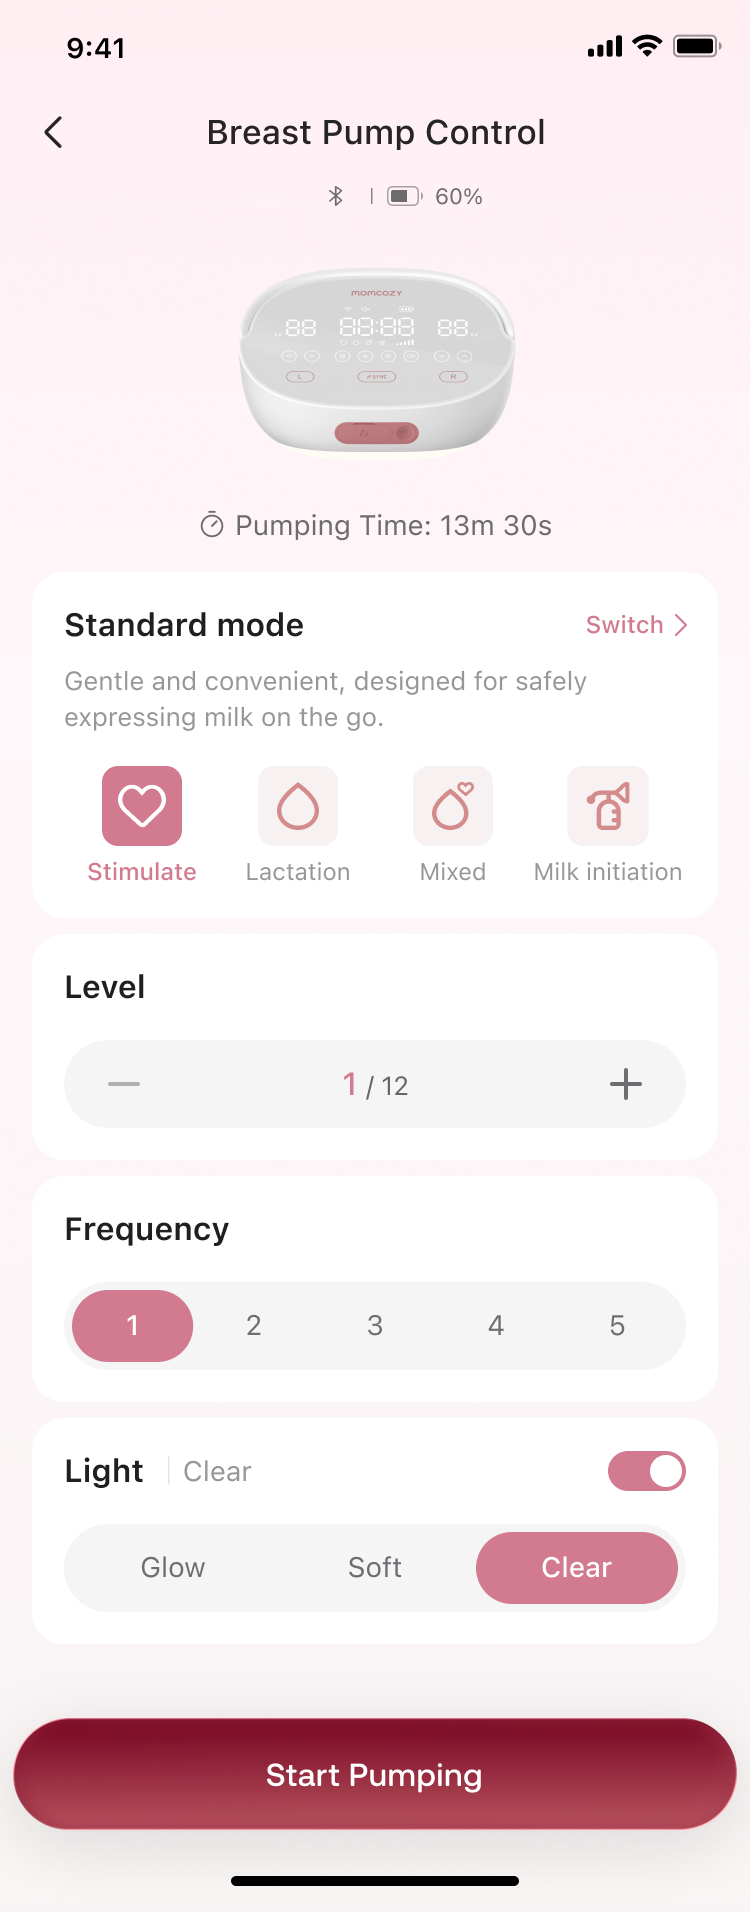
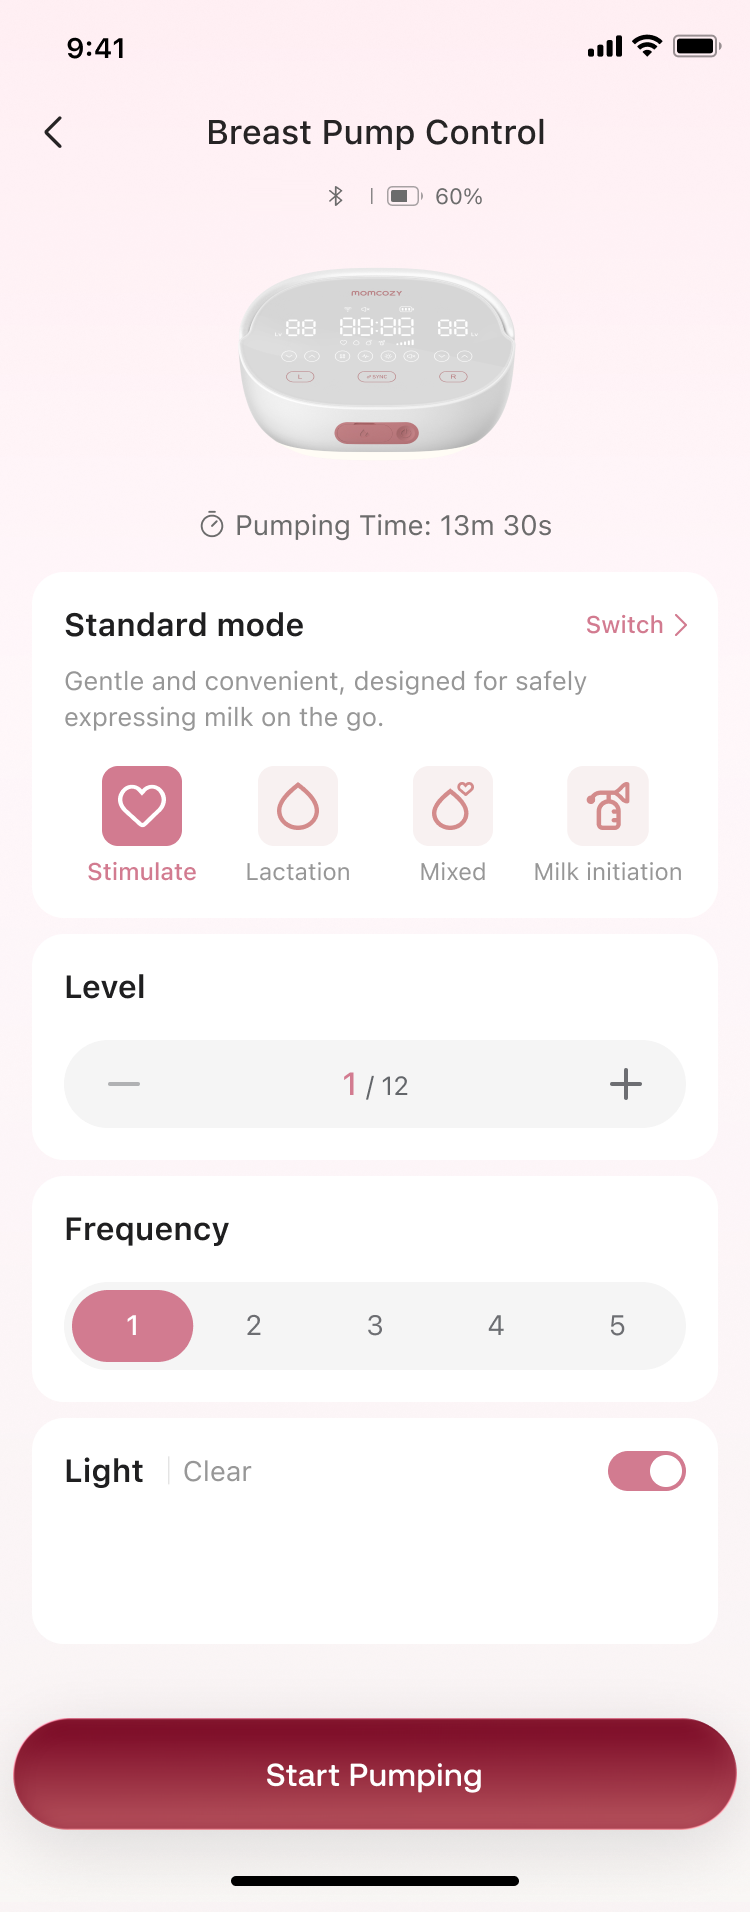
Remove duplicate light selector from control artwork

Changed region(s): [[0.6133, 0.8023, 0.92, 0.864], [0.184, 0.8023, 0.276, 0.8332], [0.46, 0.8023, 0.5213, 0.8332]]

diff --git a/demo/q1-mobile/image-assets.js b/demo/q1-mobile/image-assets.js
@@ -4,7 +4,7 @@ window.Q1_IMAGE_ASSETS = {
   "auto-discovery-iphone17.png": "./assets/optimized/auto-discovery-iphone17.186bb6f88c.webp",
   "cozie-ai-pumping.png": "./assets/optimized/cozie-ai-pumping.d22dd59d2b.webp",
   "cozy-assistant.png": "./assets/optimized/cozy-assistant.ab2af5dabc.webp",
-  "device-control.png": "./assets/optimized/device-control.c269902a6f.webp",
+  "device-control.png": "./assets/optimized/device-control.d4de3448c9.webp",
   "firmware-alert.png": "./assets/optimized/firmware-alert.c99d892578.webp",
   "firmware-upgrade.png": "./assets/optimized/firmware-upgrade.e28b4b4f1a.webp",
   "manual-add-iphone17.png": "./assets/optimized/manual-add-iphone17.0b46ee4d08.webp",

diff --git a/demo/q1-mobile/index.html b/demo/q1-mobile/index.html
@@ -11,7 +11,7 @@
     <link rel="stylesheet" href="./motion.css?v=2" />
     <script src="./assets/lucide.min.js" defer></script>
     <script src="./motion.js?v=3" defer></script>
-    <script src="./image-assets.js?v=1" defer></script>
+    <script src="./image-assets.js?v=2" defer></script>
     <script src="./app.js?v=mobile.12" defer></script>
   </head>
   <body>
